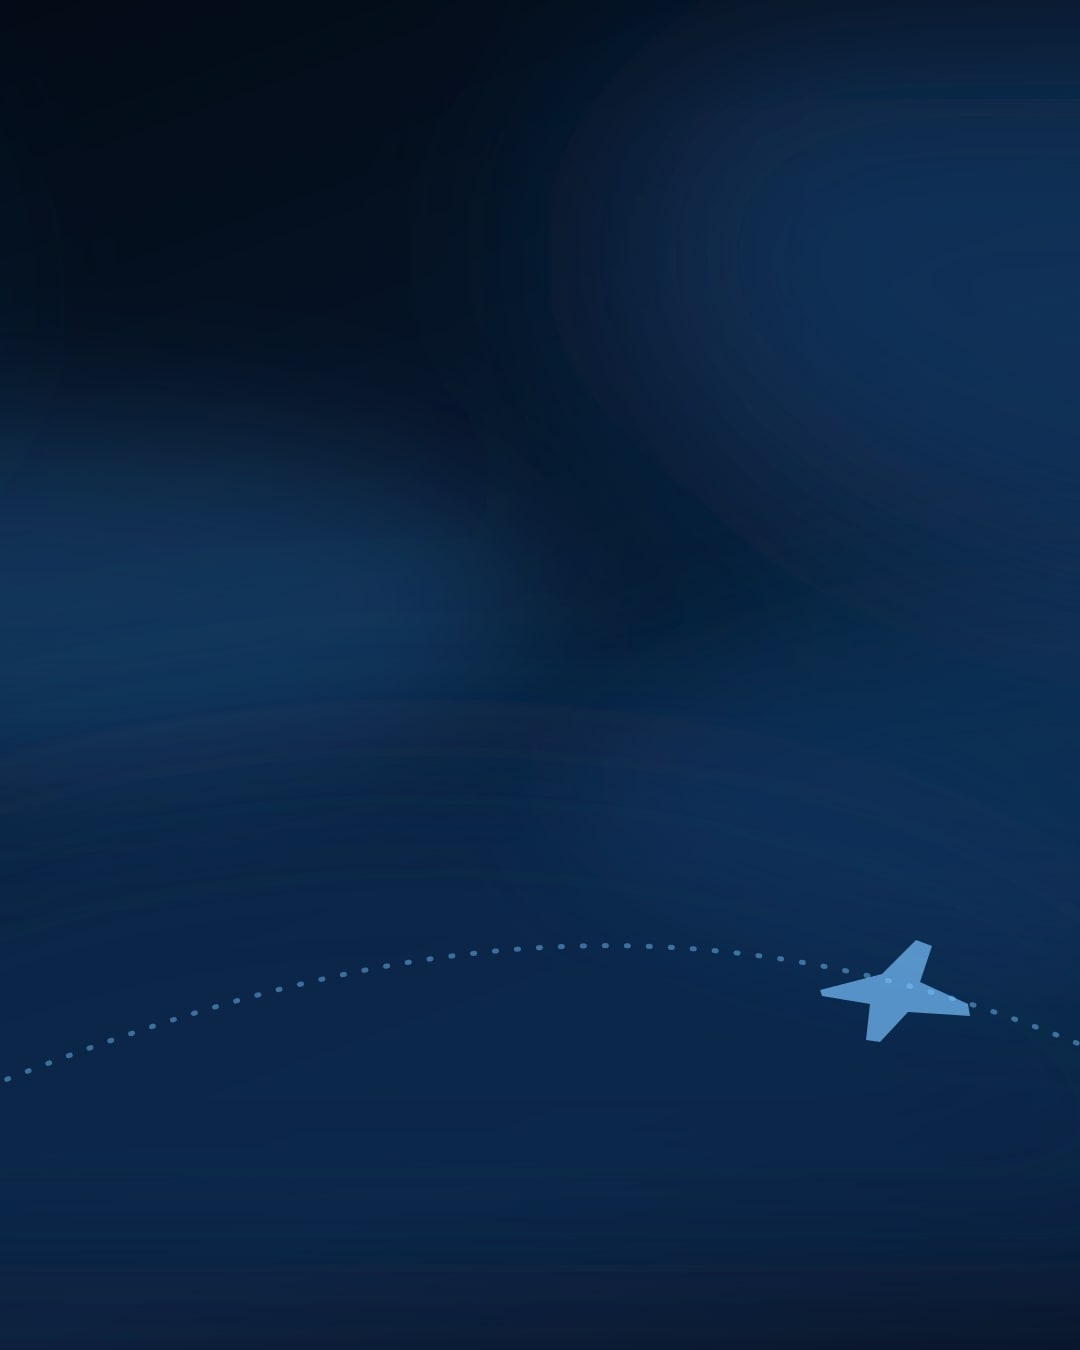
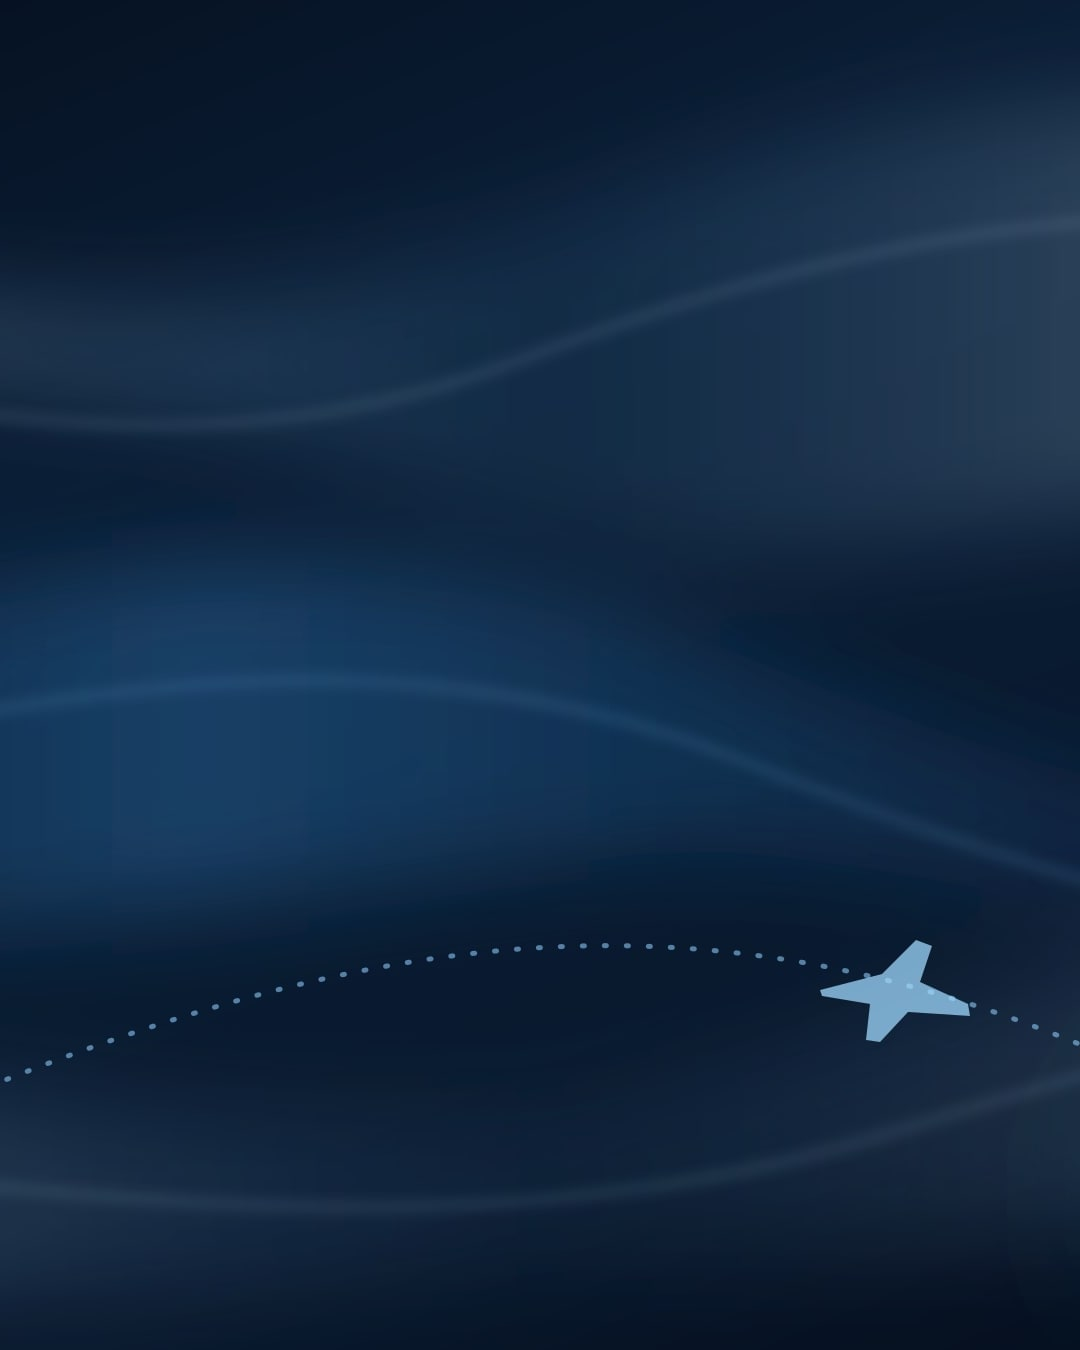
Enlarge carousel copy, soften the emblem and add wind-wave background
- bigger handle, kicker, EXPECT US and date typography
- darken supplied emblem photo for a harmonious dark palette
- metallic wavy wind gradient across the three panels

diff --git a/design/instagram/stay-tuned.tsx b/design/instagram/stay-tuned.tsx
@@ -88,15 +88,15 @@ function Identity({ assetBaseUrl }: { assetBaseUrl: string }) {
         justifyContent: "center",
       }}
     >
-      <span style={{ fontSize: 34, fontWeight: 700, letterSpacing: 6, color: INK }}>MUNAIR'27</span>
+      <span style={{ fontSize: 52, fontWeight: 700, letterSpacing: 7, color: INK }}>MUNAIR'27</span>
       <img
         src={`${assetBaseUrl}/design/instagram/stay-photo-transparent.png`}
         alt=""
         width={width}
         height={height}
-        style={{ marginTop: 34, width, height }}
+        style={{ marginTop: 34, width, height, opacity: 0.72 }}
       />
-      <span style={{ marginTop: 30, fontSize: 26, fontWeight: 500, letterSpacing: 3, color: ACCENT }}>
+      <span style={{ marginTop: 30, fontSize: 38, fontWeight: 500, letterSpacing: 4, color: ACCENT }}>
         #wingsofdiplomacy
       </span>
     </div>
@@ -106,7 +106,7 @@ function Identity({ assetBaseUrl }: { assetBaseUrl: string }) {
 function Statement() {
   return (
     <div style={{ display: "flex", flex: 1, flexDirection: "column", justifyContent: "center", marginTop: -30 }}>
-      <span style={{ fontSize: 18, fontWeight: 500, letterSpacing: 8, color: ACCENT, textTransform: "uppercase" }}>
+      <span style={{ fontSize: 24, fontWeight: 500, letterSpacing: 8, color: ACCENT, textTransform: "uppercase" }}>
         Storm is coming
       </span>
       <div
@@ -114,7 +114,7 @@ function Statement() {
           display: "flex",
           marginTop: 26,
           marginLeft: -34,
-          fontSize: 152,
+          fontSize: 178,
           fontWeight: 700,
           lineHeight: 0.88,
           letterSpacing: -5,
@@ -129,7 +129,7 @@ function Statement() {
           display: "flex",
           marginTop: -18,
           marginLeft: -26,
-          fontSize: 356,
+          fontSize: 390,
           fontWeight: 700,
           lineHeight: 0.82,
           letterSpacing: -8,
@@ -150,7 +150,7 @@ function Dates() {
         style={{
           display: "flex",
           flexDirection: "column",
-          fontSize: 214,
+          fontSize: 236,
           fontWeight: 700,
           lineHeight: 0.8,
           letterSpacing: -8,
@@ -161,13 +161,13 @@ function Dates() {
         <span>6</span>
         <span>7</span>
       </div>
-      <span style={{ marginTop: 16, fontSize: 122, fontWeight: 700, lineHeight: 0.9, letterSpacing: -3, color: ACCENT }}>
+      <span style={{ marginTop: 16, fontSize: 142, fontWeight: 700, lineHeight: 0.9, letterSpacing: -3, color: ACCENT }}>
         MARCH
       </span>
       <span
         style={{
           marginTop: 26,
-          fontSize: 18,
+          fontSize: 24,
           fontWeight: 500,
           letterSpacing: 5,
           color: "rgba(234,244,251,0.7)",
